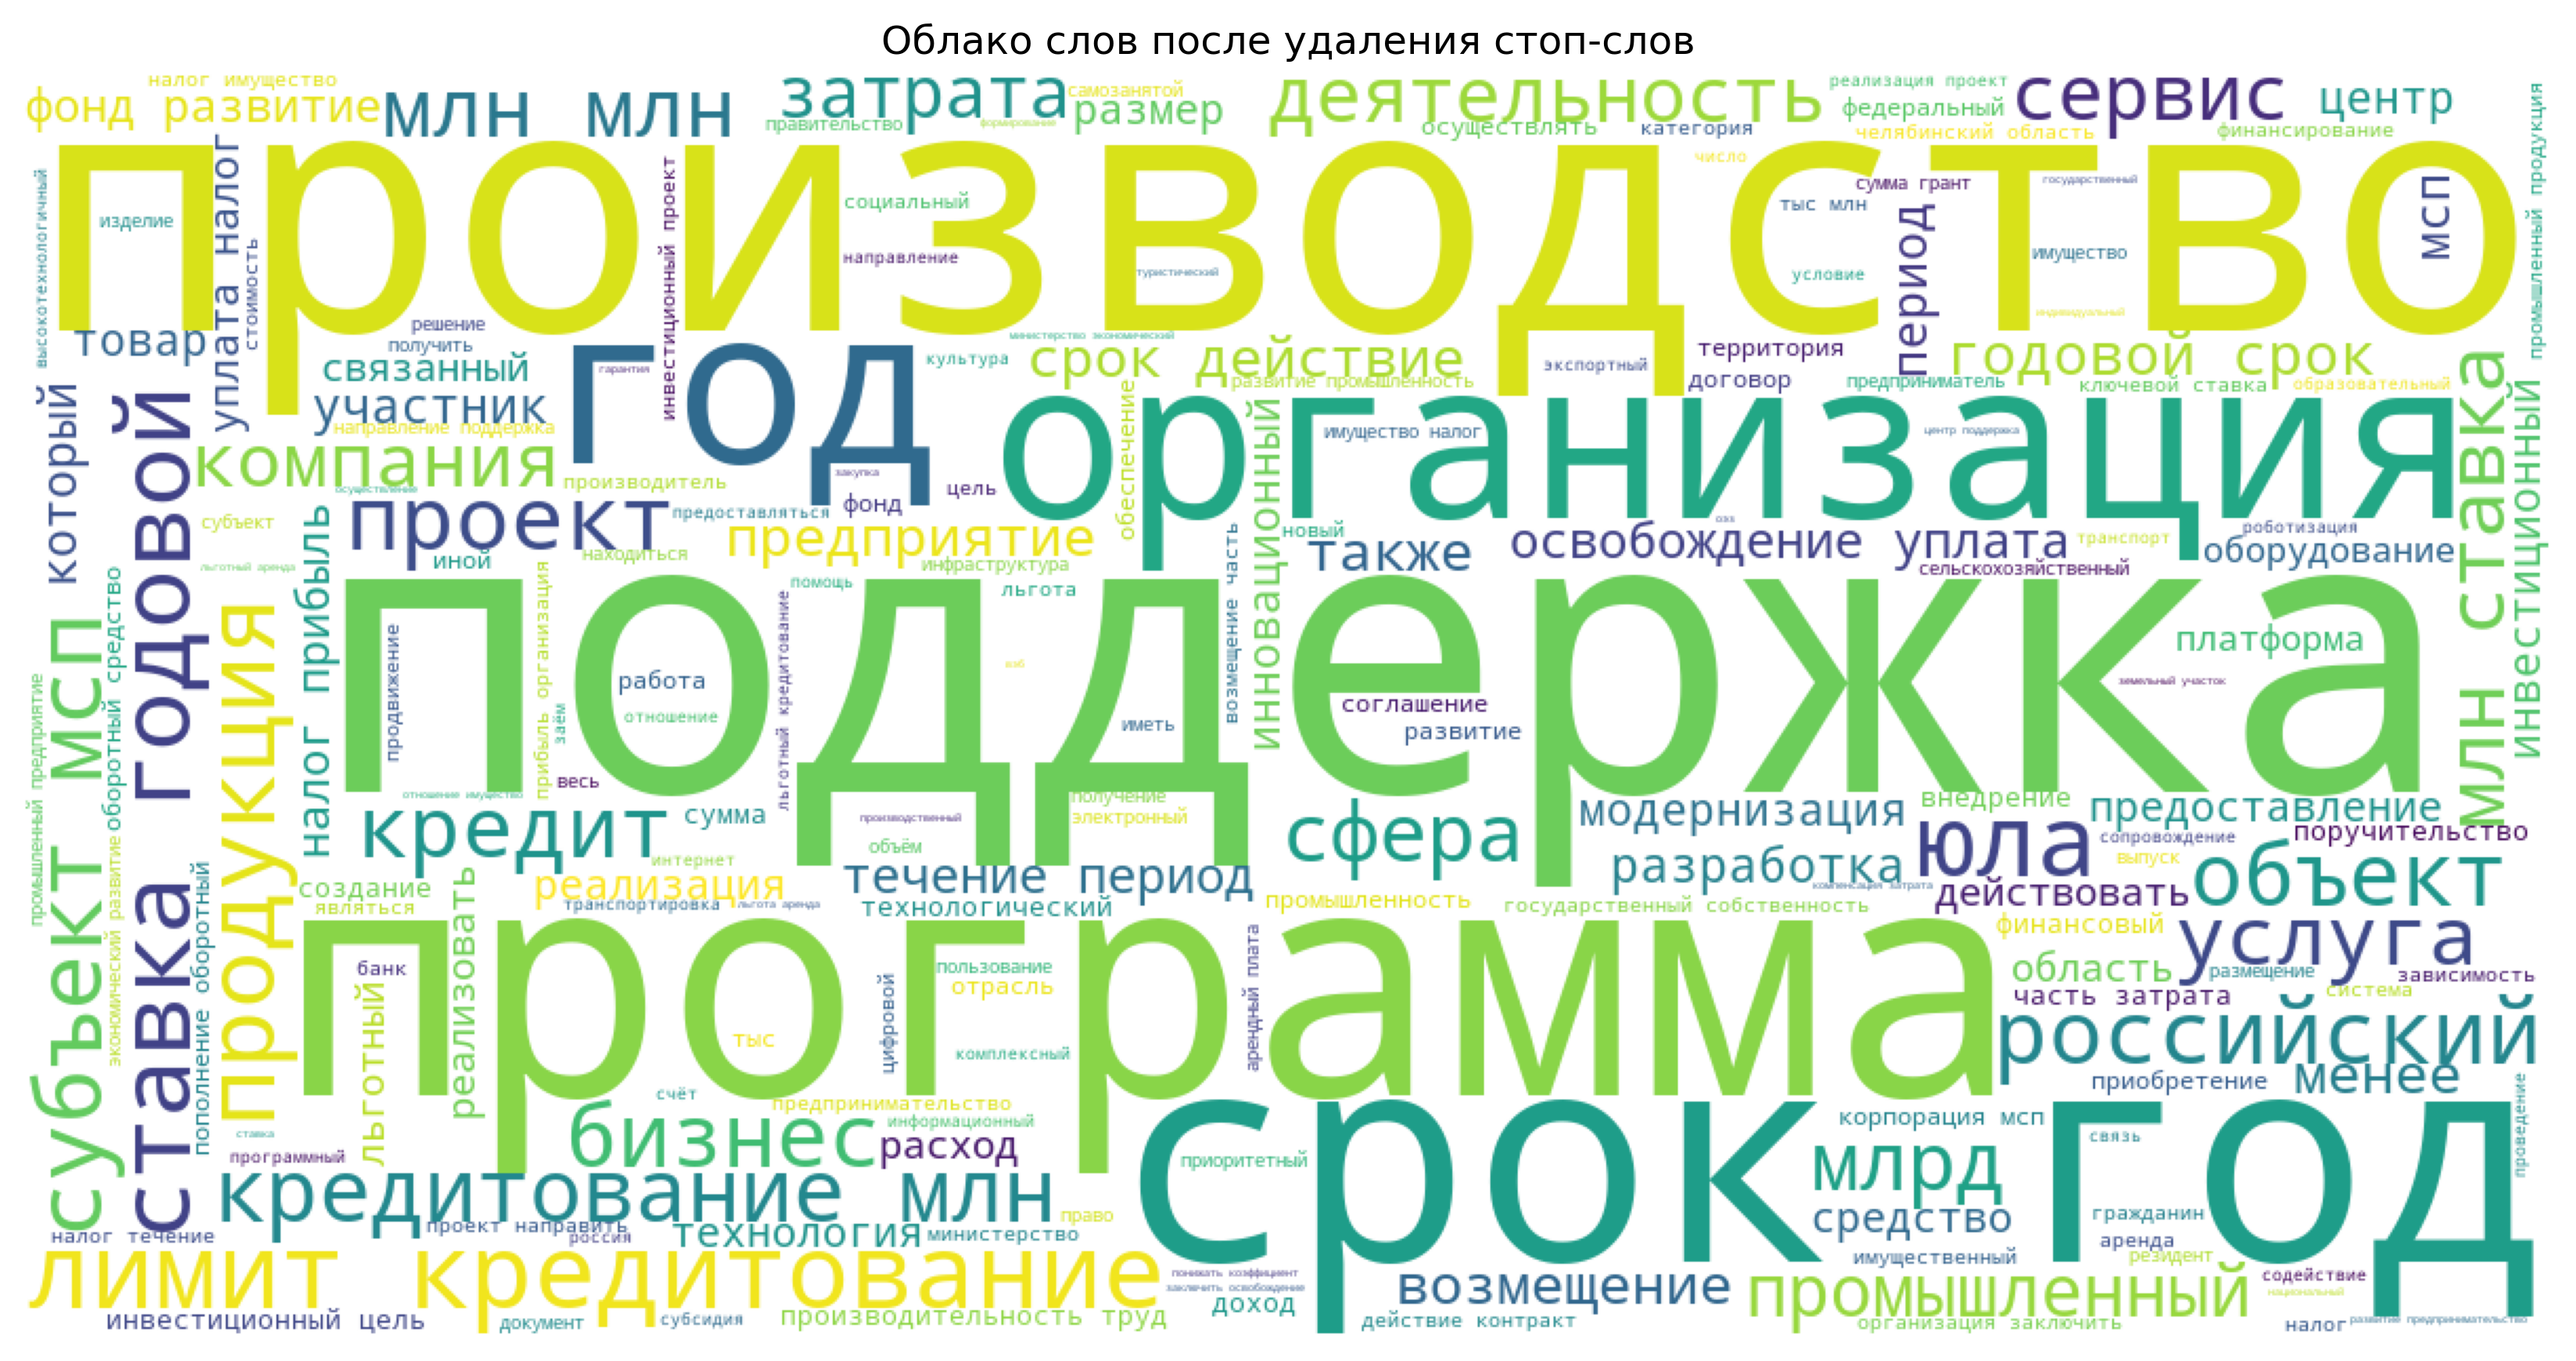
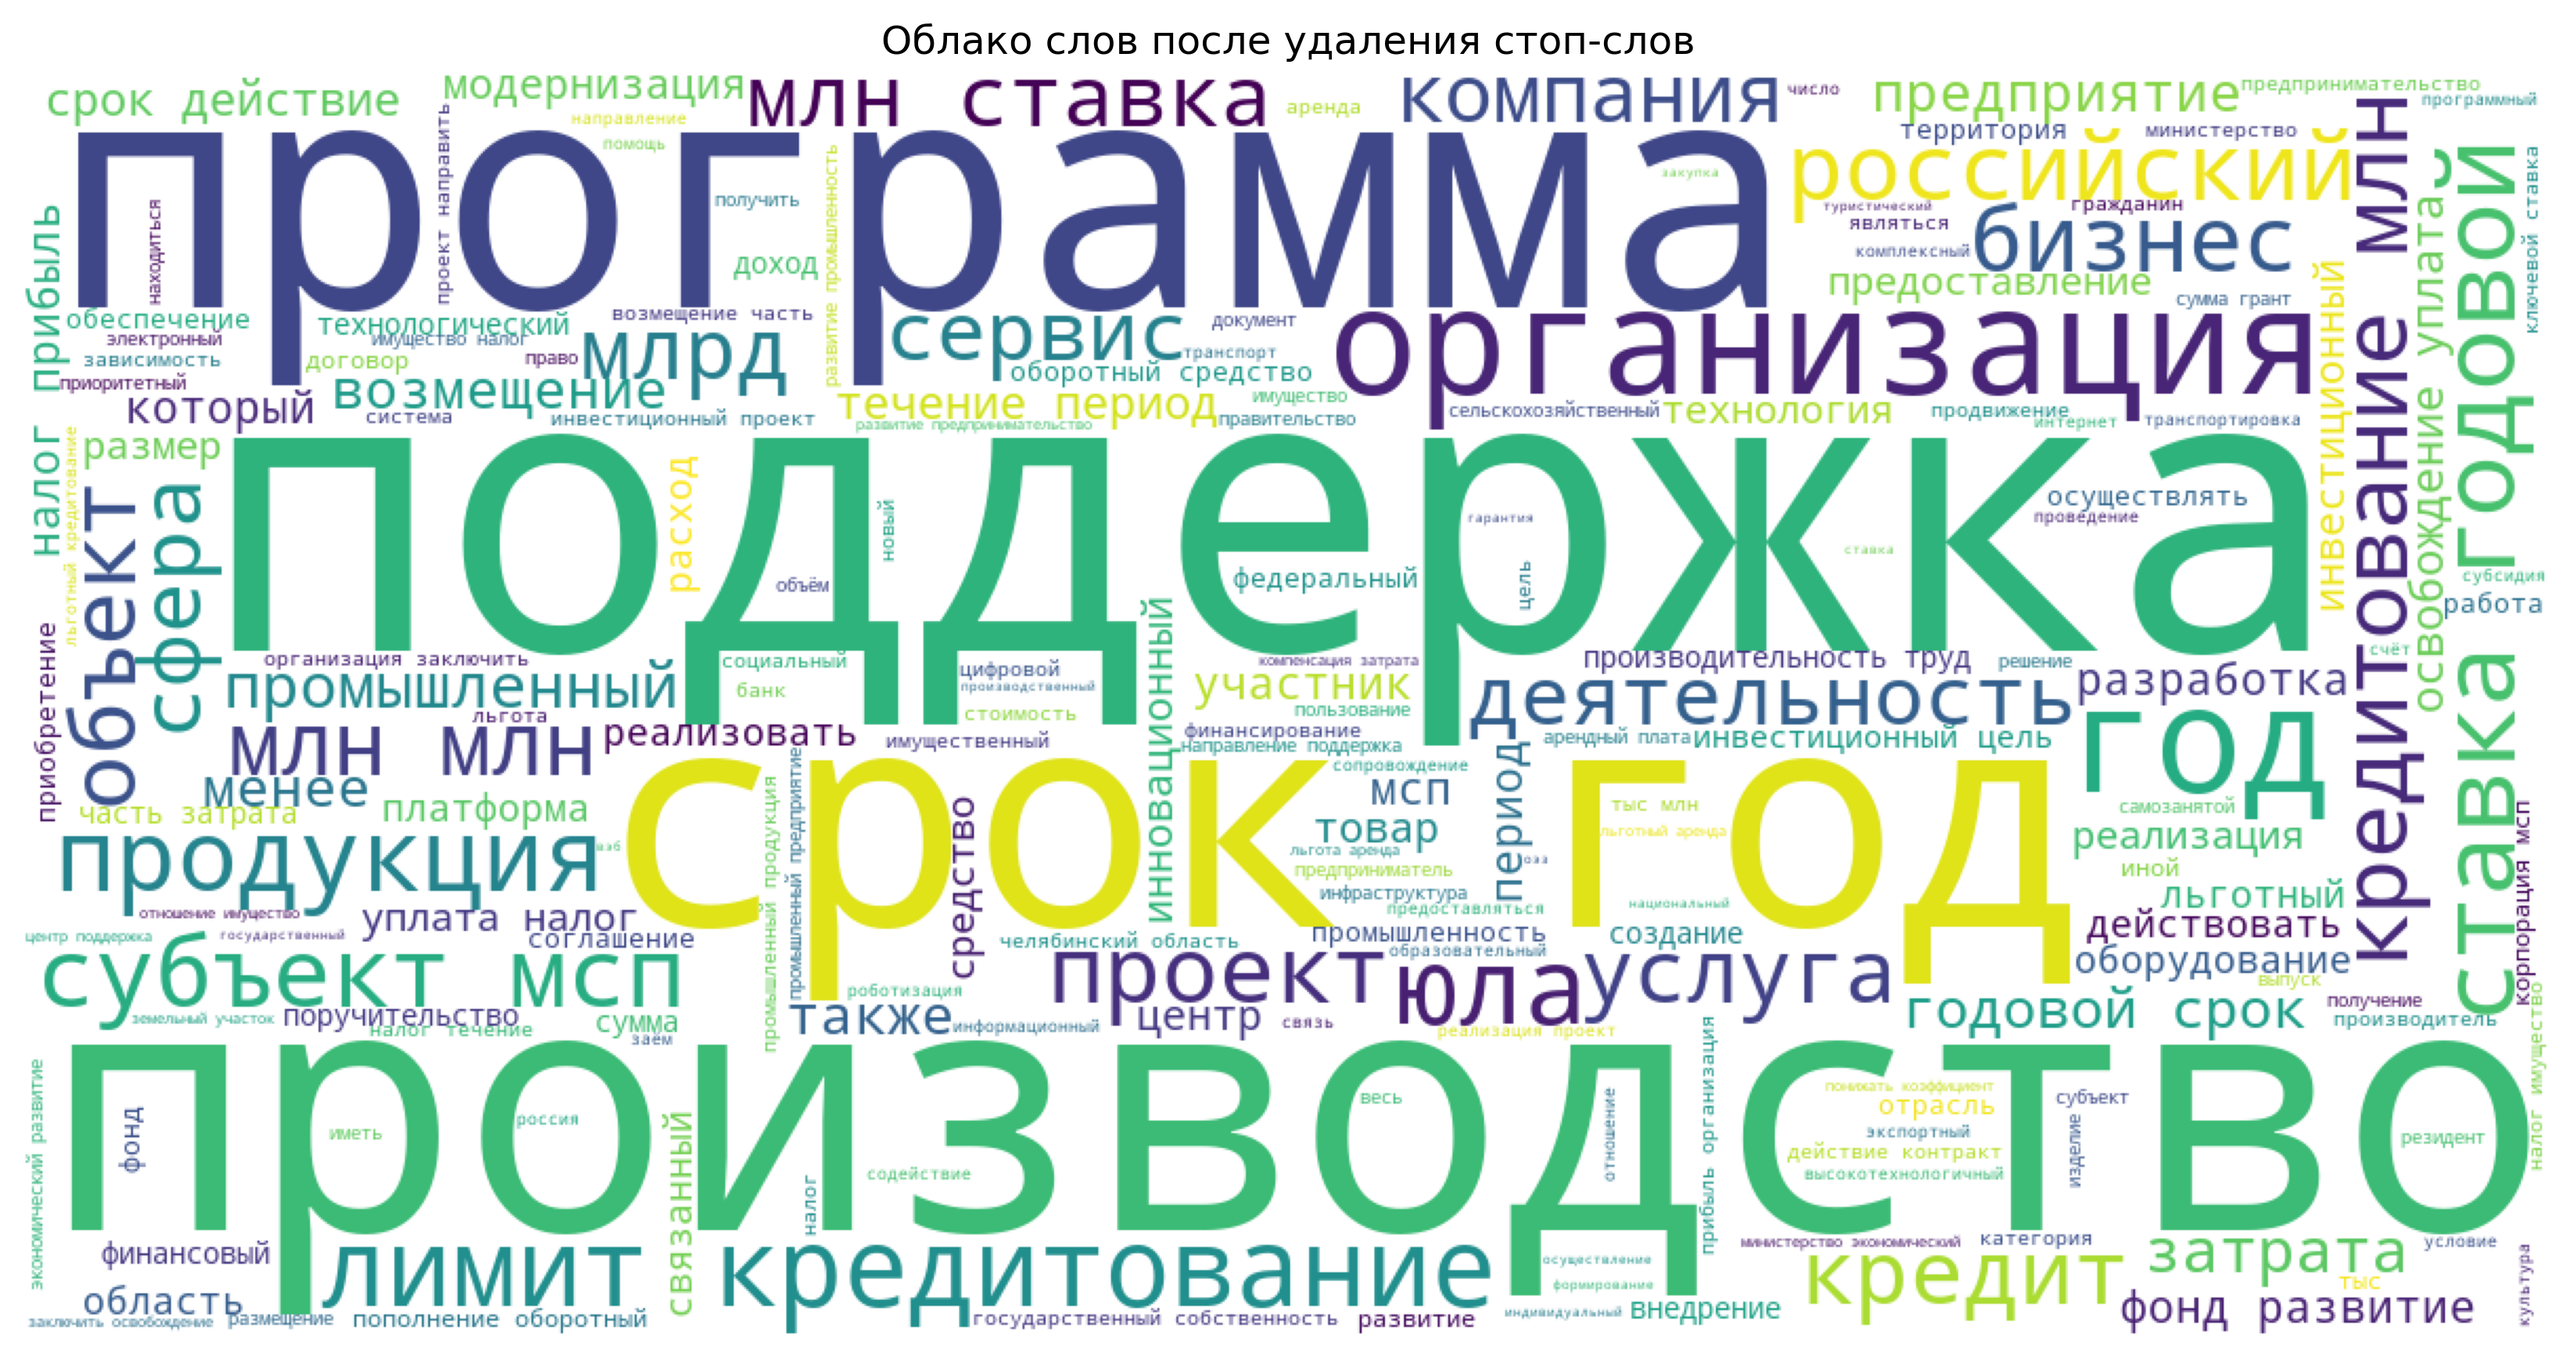
lize

diff --git a/TextRAG/analysis.py b/TextRAG/analysis.py
@@ -454,8 +454,7 @@ def search(query, top_k=5):
 # ==========================================
 
 query = (
-    "льготный кредит для промышленного "
-    "предприятия"
+    "Какой максимальный размер финансирования предусмотрен по льготному лизингу оборудования через МСП Лизинг?"
 )
 
 results = search(query)
